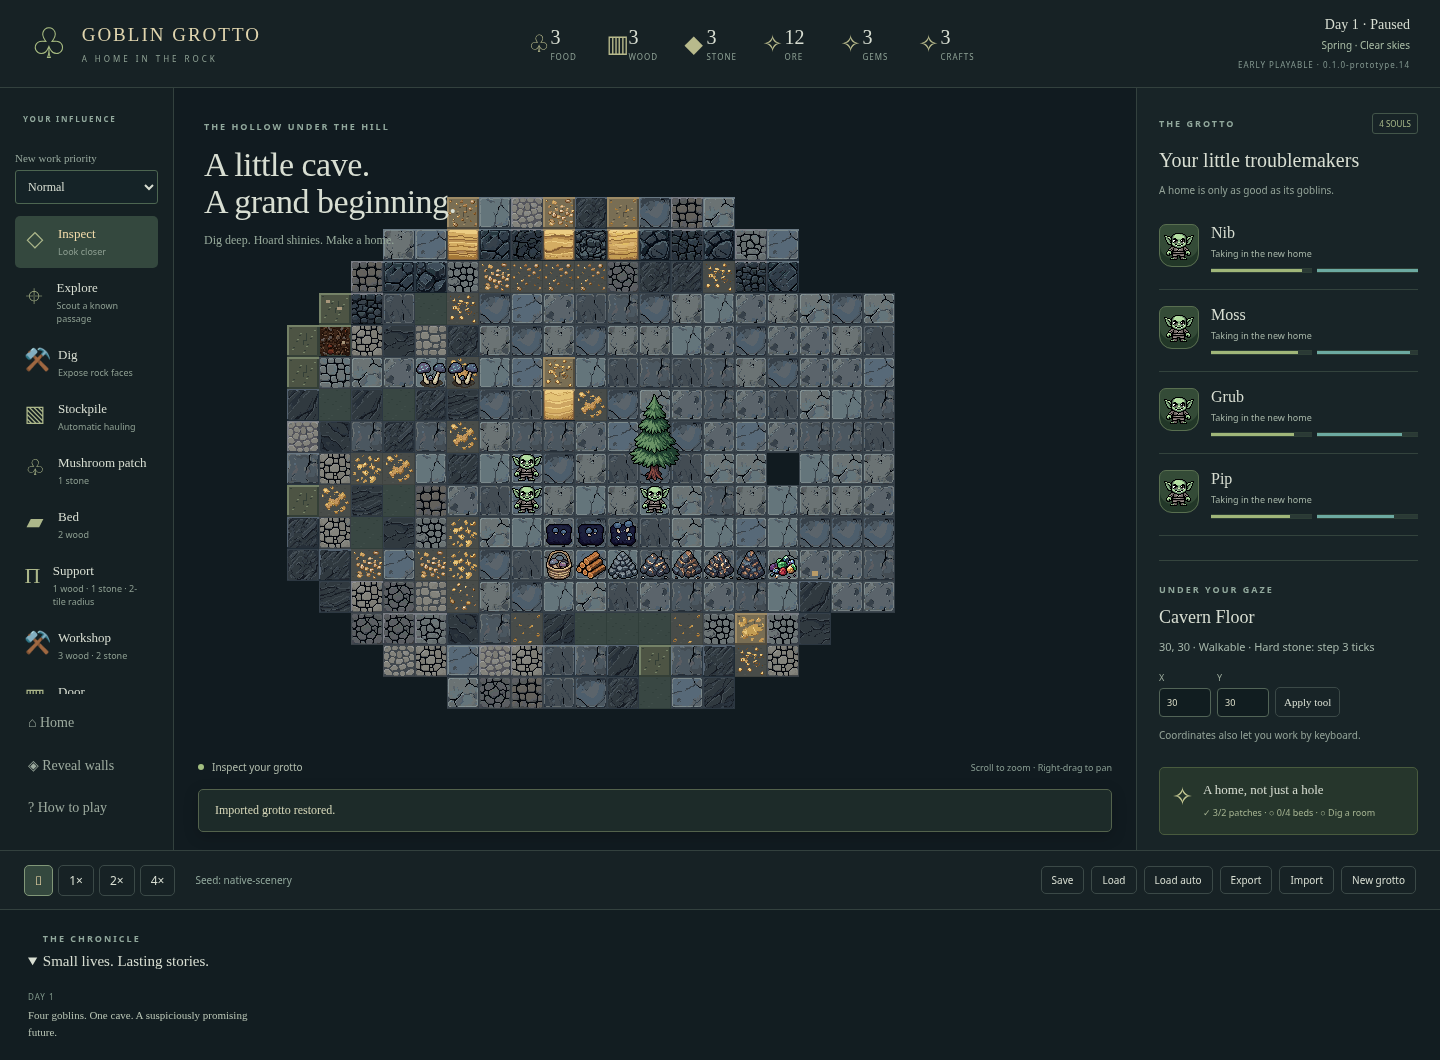
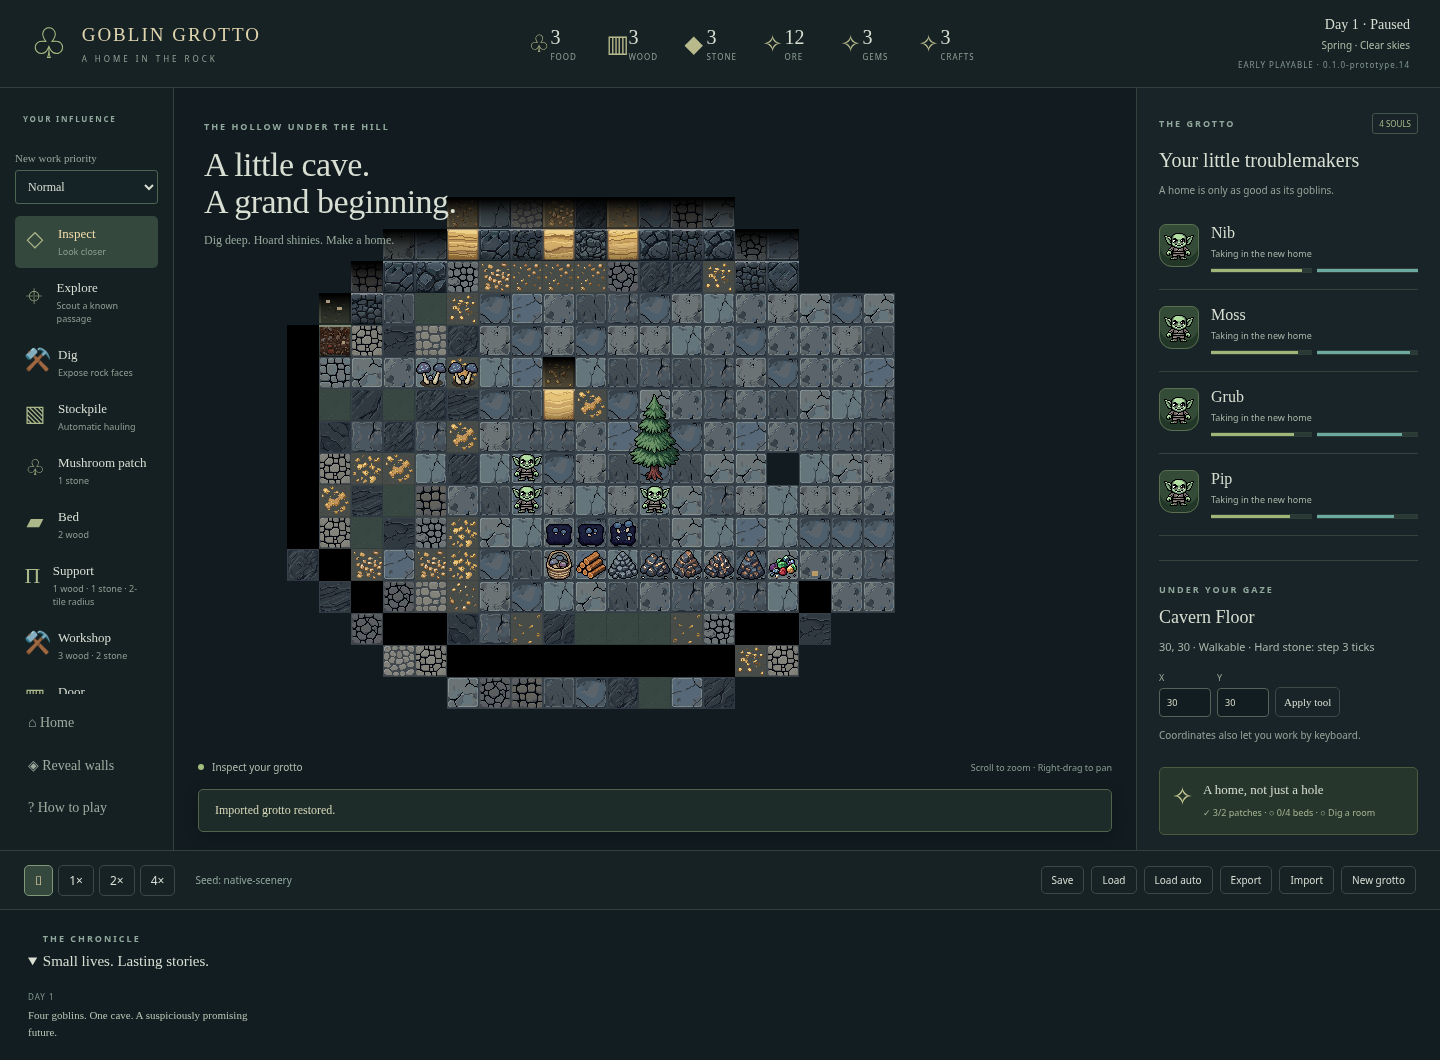
feat(render): shade walls and cull scenery outside the camera

Changed region(s): [[0.1875, 0.3113, 0.5938, 0.6538], [0.2188, 0.1868, 0.5625, 0.3113], [0.375, 0.3113, 0.4062, 0.3736]]

diff --git a/src/render/scene.ts b/src/render/scene.ts
@@ -1,7 +1,9 @@
+import { drawWallShading } from "./wall-shading";
 import { seedValue } from "../core/random";
 import {
   tileScenery,
   sceneryFrames,
+  sceneryViewport,
   itemArt,
   treeBounds,
   treeOverlapsActor,
@@ -201,8 +203,9 @@ export class Scene {
     const selectedFeet = selectedGoblin
       ? this.renderPositions.get(selectedGoblin.id)
       : undefined;
-    for (let y = 0; y < s.height; y++)
-      for (let x = 0; x < s.width; x++) {
+    const view = sceneryViewport(this.camera, this.app.screen, this.mapSize);
+    for (let y = view.minY; y <= view.maxY; y++)
+      for (let x = view.minX; x <= view.maxX; x++) {
         const p = position(x, y),
           t = tileAt(s, p)!;
         if (!t.discovered) continue;
@@ -270,7 +273,7 @@ export class Scene {
         }
         const bounds = tree ? treeBounds(p) : { x: a.x - HALF_TILE, y: a.y };
         node.plant.position.set(bounds.x, bounds.y);
-        node.plant.zIndex = objectDepth(p);
+        node.plant.zIndex = objectDepth(p) - 0.1;
         node.plant.alpha =
           tree &&
           (this.reveal ||
@@ -331,10 +334,17 @@ export class Scene {
               snow ? 2 : 4,
             ).fill({ color: snow ? 0xe3e9dd : 0x91b9c7, alpha: 0.6 });
         }
-        const signature = `${t.solid}:${t.stockpile}:${t.stockpileFilter}:${t.deposit}:${t.feature}:${t.structure}:${node.side.visible}`;
+        const signature = `${t.solid}:${t.stockpile}:${t.stockpileFilter}:${t.deposit}:${t.feature}:${t.structure}:${node.side.visible}:${opacity === 1}`;
         if (node.signature !== signature) {
           node.signature = signature;
-          this.drawProps(d.clear(), t, a, node.side.visible, pile !== null);
+          this.drawProps(
+            d.clear(),
+            t,
+            a,
+            node.side.visible,
+            pile !== null,
+            opacity === 1,
+          );
         }
       }
     for (const item of s.items.filter(
@@ -438,7 +448,10 @@ export class Scene {
     a: { x: number; y: number },
     sideVisible: boolean,
     hasPile: boolean,
+    shade: boolean,
   ): void {
+    if (shade && (t.solid || t.structure === "wall"))
+      drawWallShading(d, a, sideVisible);
     if (t.stockpile) {
       const color = {
         all: 0xc1a46a,

diff --git a/tests/scenery.test.ts b/tests/scenery.test.ts
@@ -13,6 +13,7 @@ import {
   treeOverlapsActor,
   farmArt,
   farmStages,
+  sceneryViewport,
 } from "../src/render/scenery";
 import { inspectPoint, objectDepth, actorDepth } from "../src/render/picking";
 import legacy from "../public/assets/prototype/manifest.json";
@@ -183,4 +184,38 @@ it("retains cosmetic variants after save/load and keeps ground food distinct fro
   expect(itemArt("bedkit", "item-123")).toBeNull();
   for (const resource of ["iron", "copper", "gold"] as const)
     expect(itemArt(resource, "item-123")).toMatch(/^item-ore-/);
+});
+
+it("culls distant scenery but retains every tree whose canopy reaches the camera", () => {
+  const screen = { width: 320, height: 192 },
+    map = { width: 64, height: 64 };
+  for (const zoom of [0.6, 1, 4])
+    for (const centre of [position(0, 0), position(32, 30), position(63, 63)]) {
+      const camera = {
+        x: -(centre.x * 32 + 16) * zoom,
+        y: -(centre.y * 32 + 16) * zoom,
+        zoom,
+      };
+      const v = sceneryViewport(camera, screen, map),
+        left = (-screen.width / 2 - camera.x) / zoom,
+        right = (screen.width / 2 - camera.x) / zoom,
+        top = (-screen.height / 2 - camera.y) / zoom,
+        bottom = (screen.height / 2 - camera.y) / zoom;
+      for (let y = 0; y < 64; y++)
+        for (let x = 0; x < 64; x++) {
+          const b = treeBounds(position(x, y));
+          if (
+            b.x < right &&
+            b.x + b.width > left &&
+            b.y < bottom &&
+            b.y + b.height > top
+          ) {
+            expect(x).toBeGreaterThanOrEqual(v.minX);
+            expect(x).toBeLessThanOrEqual(v.maxX);
+            expect(y).toBeGreaterThanOrEqual(v.minY);
+            expect(y).toBeLessThanOrEqual(v.maxY);
+          }
+        }
+      expect((v.maxX - v.minX + 1) * (v.maxY - v.minY + 1)).toBeLessThan(4096);
+    }
 });

diff --git a/src/render/wall-shading.ts b/src/render/wall-shading.ts
@@ -1,0 +1,45 @@
+import { FillGradient, type Graphics } from "pixi.js";
+import { TILE_SIZE, HALF_TILE, WALL_HEIGHT } from "./metrics";
+let lighting: { top: FillGradient; face: FillGradient } | undefined;
+function gradient(
+  colorStops: { offset: number; color: string }[],
+): FillGradient {
+  const fill = new FillGradient({
+    type: "linear",
+    start: { x: 0, y: 0 },
+    end: { x: 0, y: 1 },
+    textureSpace: "local",
+    textureSize: TILE_SIZE,
+    colorStops,
+  });
+  fill.buildGradient();
+  fill.texture.source.scaleMode = "nearest";
+  return fill;
+}
+/** Two shared native-resolution ramps keep each exposed wall to two simple rectangles. */
+export function drawWallShading(
+  g: Graphics,
+  origin: { x: number; y: number },
+  exposed: boolean,
+): void {
+  const x = origin.x - HALF_TILE;
+  if (!exposed) {
+    g.rect(x, origin.y - WALL_HEIGHT, TILE_SIZE, TILE_SIZE).fill(0x000000);
+    return;
+  }
+  lighting ??= {
+    top: gradient([
+      { offset: 0, color: "rgba(0,0,0,1)" },
+      { offset: 0.05, color: "rgba(0,0,0,1)" },
+      { offset: 0.5, color: "rgba(0,0,0,0.565)" },
+      { offset: 1, color: "rgba(0,0,0,0.3)" },
+    ]),
+    face: gradient([
+      { offset: 0, color: "rgba(255,255,255,0.1)" },
+      { offset: 0.25, color: "rgba(255,255,255,0)" },
+      { offset: 1, color: "rgba(0,0,0,0.22)" },
+    ]),
+  };
+  g.rect(x, origin.y - WALL_HEIGHT, TILE_SIZE, TILE_SIZE).fill(lighting.top);
+  g.rect(x, origin.y, TILE_SIZE, TILE_SIZE).fill(lighting.face);
+}

diff --git a/src/render/scenery.ts b/src/render/scenery.ts
@@ -2,7 +2,7 @@ import catalog from "../../public/assets/sprite-catalog.json";
 import type { Position } from "../core/types";
 import { seedValue } from "../core/random";
 import { tileAt, type GameState, type Tile, type Resource } from "../sim/model";
-import { project } from "./projection";
+import { type Camera, project } from "./projection";
 import { TILE_SIZE, HALF_TILE, ACTOR_FEET } from "./metrics";
 export const sceneryFrames = new Map(catalog.sprites.map((s) => [s.id, s]));
 const families = new Map<string, typeof catalog.sprites>();
@@ -137,4 +137,30 @@ export function treeAtPoint(
         trees.push(p);
     }
   return trees.sort((a, b) => b.y - a.y || b.x - a.x)[0] ?? null;
+}
+
+/** Conservative root range: retain canopies reaching in from outside the viewport. */
+export function sceneryViewport(
+  camera: Camera,
+  screen: { width: number; height: number },
+  map: { width: number; height: number },
+) {
+  return {
+    minX: Math.max(
+      0,
+      Math.floor((-screen.width / 2 - camera.x) / camera.zoom / TILE_SIZE) - 1,
+    ),
+    maxX: Math.min(
+      map.width - 1,
+      Math.ceil((screen.width / 2 - camera.x) / camera.zoom / TILE_SIZE) + 1,
+    ),
+    minY: Math.max(
+      0,
+      Math.floor((-screen.height / 2 - camera.y) / camera.zoom / TILE_SIZE) - 1,
+    ),
+    maxY: Math.min(
+      map.height - 1,
+      Math.ceil((screen.height / 2 - camera.y) / camera.zoom / TILE_SIZE) + 2,
+    ),
+  };
 }

diff --git a/docs/PROTOTYPE.md b/docs/PROTOTYPE.md
@@ -16,7 +16,7 @@ uses a stored kit before falling back to two raw wood.
 
 - `npm run typecheck`: strict TypeScript, including browser and simulation tests.
 - `npm run lint` and `npm run format:check`: Biome checks.
-- `npm test`: 90 headless tests in eighteen files. Includes 1,000 seeded starts;
+- `npm test`: 91 headless tests in eighteen files. Includes 1,000 seeded starts;
   a 24,000-tick colony run; three further 16,000-tick runs with save validation
   every 200 ticks; item, reservation, hunger, construction/refund and craft/use
   invariants; snapshot replay; exact clock steps at several render frequencies;
@@ -285,7 +285,7 @@ The owner's farm-stage clarification is mapped explicitly: young 01/04 at 0–19
 growing 03/05 at 200–599, mature 02/06 at 600. A plot keeps the same alternative
 through its stages; the mature image coincides with harvest readiness.
 
-Six new headless tests verify every source alternative/role, unchanged simulation
+Seven new headless tests verify every source alternative/role, unchanged simulation
 snapshots, growth pairs/thresholds, root geometry, full canopy bounds, foreground
 depth and reveal, hidden/removed roots, and saved visual consistency. The browser
 imports a controlled scene with trees, farms and physical resources, checks actual
@@ -304,3 +304,16 @@ Supplied terrain PNGs have transparent gaps, especially the sparse sand overlays
 Native reference tiles provide solid backing beneath ground, tops and faces,
 preserving source alpha and a continuous surface. Wall reveal hides these
 backings while fading the supplied face/top.
+
+
+The owner-requested lighting adds a light face gradient and a dark top-to-black
+roof fade using two shared native-resolution gradient textures. Reveal and selected-actor fades remove the
+lighting/backing, while mining clears the wall props. Original PNGs remain unchanged.
+
+The wall lighting reuses two 32-step nearest-sampled gradient textures; each
+exposed wall adds two simple rectangles to its cached props, avoiding per-row
+geometry or per-wall gradient allocation.
+
+Scenery updates/rendering are limited to the camera region, retaining a margin
+for tree roots whose 96px canopies extend into view. A regression checks all
+intersecting canopies at map edges and multiple zoom levels.

diff --git a/docs/ART_BIBLE.md b/docs/ART_BIBLE.md
@@ -207,3 +207,22 @@ Supplied terrain PNGs have transparent gaps, especially the sparse sand overlays
 Native reference tiles provide solid backing beneath ground, tops and faces,
 preserving source alpha and a continuous surface. Wall reveal hides these
 backings while fading the supplied face/top.
+
+
+## Wall perspective lighting
+
+Renderer-only native-resolution gradients add a restrained upper-face highlight, tapering to
+shade at the foot. Exposed wall tops retain a dark textured front lip and fade to
+pure black towards the back/north edge. Interior top tiles join the black roof.
+The lighting uses each wall's same 32px geometry, never repaints or rescales source
+PNGs, and is cached with the tile's props. Reveal/selected-actor fade removes the
+lighting and solid backings while leaving supplied textures translucent, so the
+black roof cannot keep hiding the goblin. Excavation clears the cached wall props.
+
+The wall lighting reuses two 32-step nearest-sampled gradient textures; each
+exposed wall adds two simple rectangles to its cached props, avoiding per-row
+geometry or per-wall gradient allocation.
+
+Scenery updates/rendering are limited to the camera region, retaining a margin
+for tree roots whose 96px canopies extend into view. A regression checks all
+intersecting canopies at map edges and multiple zoom levels.

diff --git a/docs/adr/0009-scenery-and-tree-anchors.md b/docs/adr/0009-scenery-and-tree-anchors.md
@@ -38,3 +38,18 @@ Supplied terrain PNGs have transparent gaps, especially the sparse sand overlays
 Native reference tiles provide solid backing beneath ground, tops and faces,
 preserving source alpha and a continuous surface. Wall reveal hides these
 backings while fading the supplied face/top.
+
+
+The owner subsequently requests perspective lighting. Apply two shared 32-step gradient textures in the renderer: a slight upper-face highlight fading into foot shade,
+and dark roof texture fading to black away from the exposed front edge. Interior
+top tiles merge into black. Keep shading in the existing cached props Graphics;
+include reveal/fade state in its cache signature. Fading a wall removes lighting
+and backing so the roof cannot mask revealed actors. Excavation clears the props.
+
+The wall lighting reuses two 32-step nearest-sampled gradient textures; each
+exposed wall adds two simple rectangles to its cached props, avoiding per-row
+geometry or per-wall gradient allocation.
+
+Scenery updates/rendering are limited to the camera region, retaining a margin
+for tree roots whose 96px canopies extend into view. A regression checks all
+intersecting canopies at map edges and multiple zoom levels.

diff --git a/CHANGELOG.md b/CHANGELOG.md
@@ -17,6 +17,7 @@ This project uses milestone versions described in [PLAN.md](PLAN.md). Entries re
 
 #### Changed
 
+- Wall faces gain a subtle upper highlight and darker foot; exposed tops fade from a dark front lip to black at the back. Interior roof tiles are black, with lighting removed during reveal/selected-actor fade so visibility remains clear. Original sprite PNGs are unchanged. Shared gradient textures and viewport culling keep lighting work bounded, with margins for tree canopies.
 - Cosmetic choices derive from the existing seed, tile and item identity. Saves keep schema 9; simulation RNG, growth timers, item identities and job rules retain their current behavior.
 
 ### 0.1.0-prototype.13 — picks in the rock, axes in the wood
